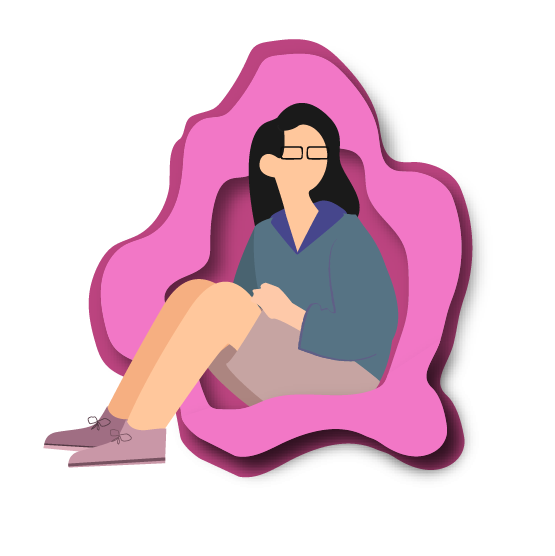
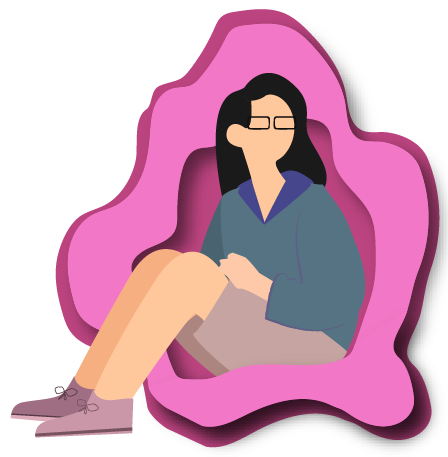
fix: media query font size
short fix media query font size

diff --git a/global.css b/global.css
@@ -97,7 +97,7 @@ p {
 
 .illustration-i {
   grid-area: i;
-  height: 90%;
+  max-width: 100%;
   object-fit: cover;
   margin: auto auto auto auto;
 }
@@ -122,8 +122,7 @@ p {
 }
 
 .recentworks {
-  width: auto;
-  max-width: 300px;
+  max-width: 340px;
   height: 220 px;
   box-shadow: 0 1px 3px rgba(0, 0, 0, 0.12), 0 1px 2px rgba(0, 0, 0, 0.24);
   transition: all 0.2s;
@@ -162,7 +161,6 @@ p {
       ". . i i i i i i i i i i . ."
       ". . i i i i i i i i i i . ."
       ". . i i i i i i i i i i . ."
-      ". . . . . . . . . . . . . ."
       ". B B B B B B B B B B B B ."
       ". b b b b b b b b b b b b ."
       ". c c c c c c c c c c c c ."
@@ -183,5 +181,13 @@ p {
   .logotype,
   .link {
     display: none;
+  }
+  .Introduction-A,
+  .Works-B {
+    font-size: 2.5rem;
+  }
+  .introduction-a,
+  .works-b {
+    font-size: 1.8rem;
   }
 }

diff --git a/index.html b/index.html
@@ -13,6 +13,7 @@
     <link rel="icon" href="assets/Icon Png.png" />
   </head>
   <body>
+    <!-- navigation -->
     <section class="navbar">
       <div class="leftside"></div>
       <img id="logo" src="assets/logo.svg" />
@@ -25,6 +26,8 @@
       </ul>
       <div class="rightside"></div>
     </section>
+    <!-- navigation end -->
+    <!-- introduction -->
     <div class="container">
       <h2 class="Introduction-A">Hi there! I'm Arian</h2>
       <p class="introduction-a">
@@ -33,6 +36,8 @@
         explosives, playing with chemicals, and tinkering with machines.
       </p>
       <img class="illustration-i" src="assets/arian-illustration-1.png" />
+
+      <!-- recentworks -->
       <h2 class="Works-B">Recent Works</h2>
       <p class="works-b">
         Here are some of the projects I'm currently working on
